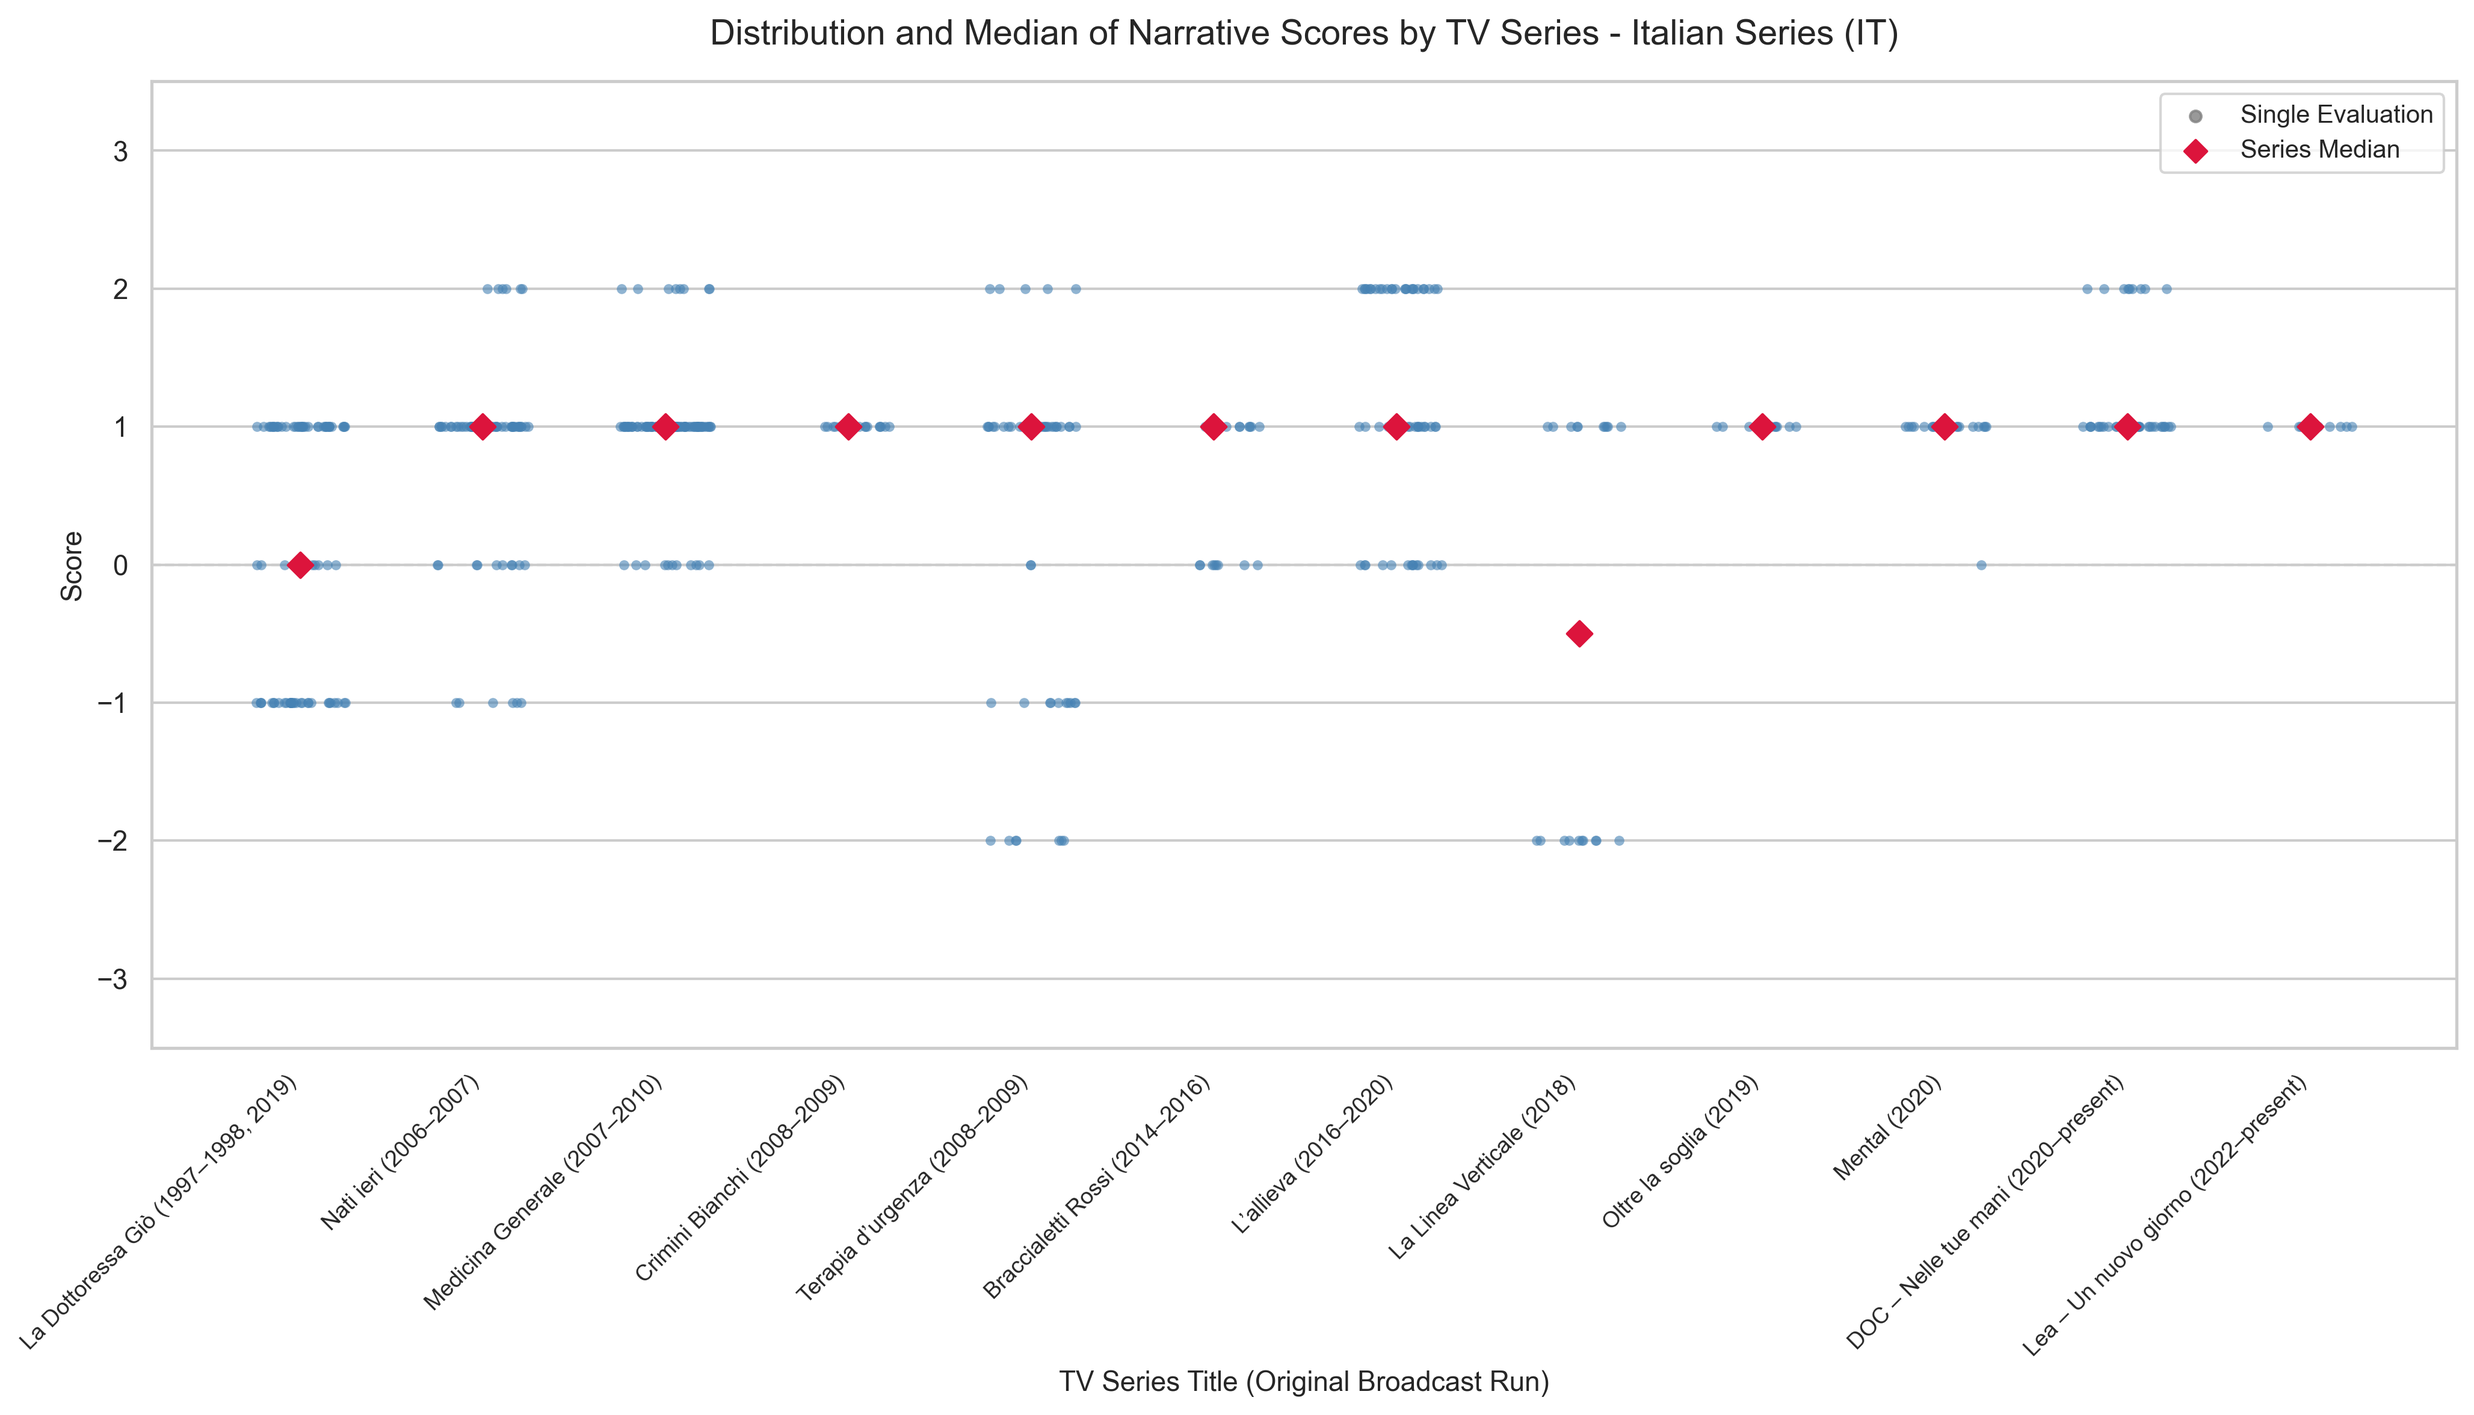
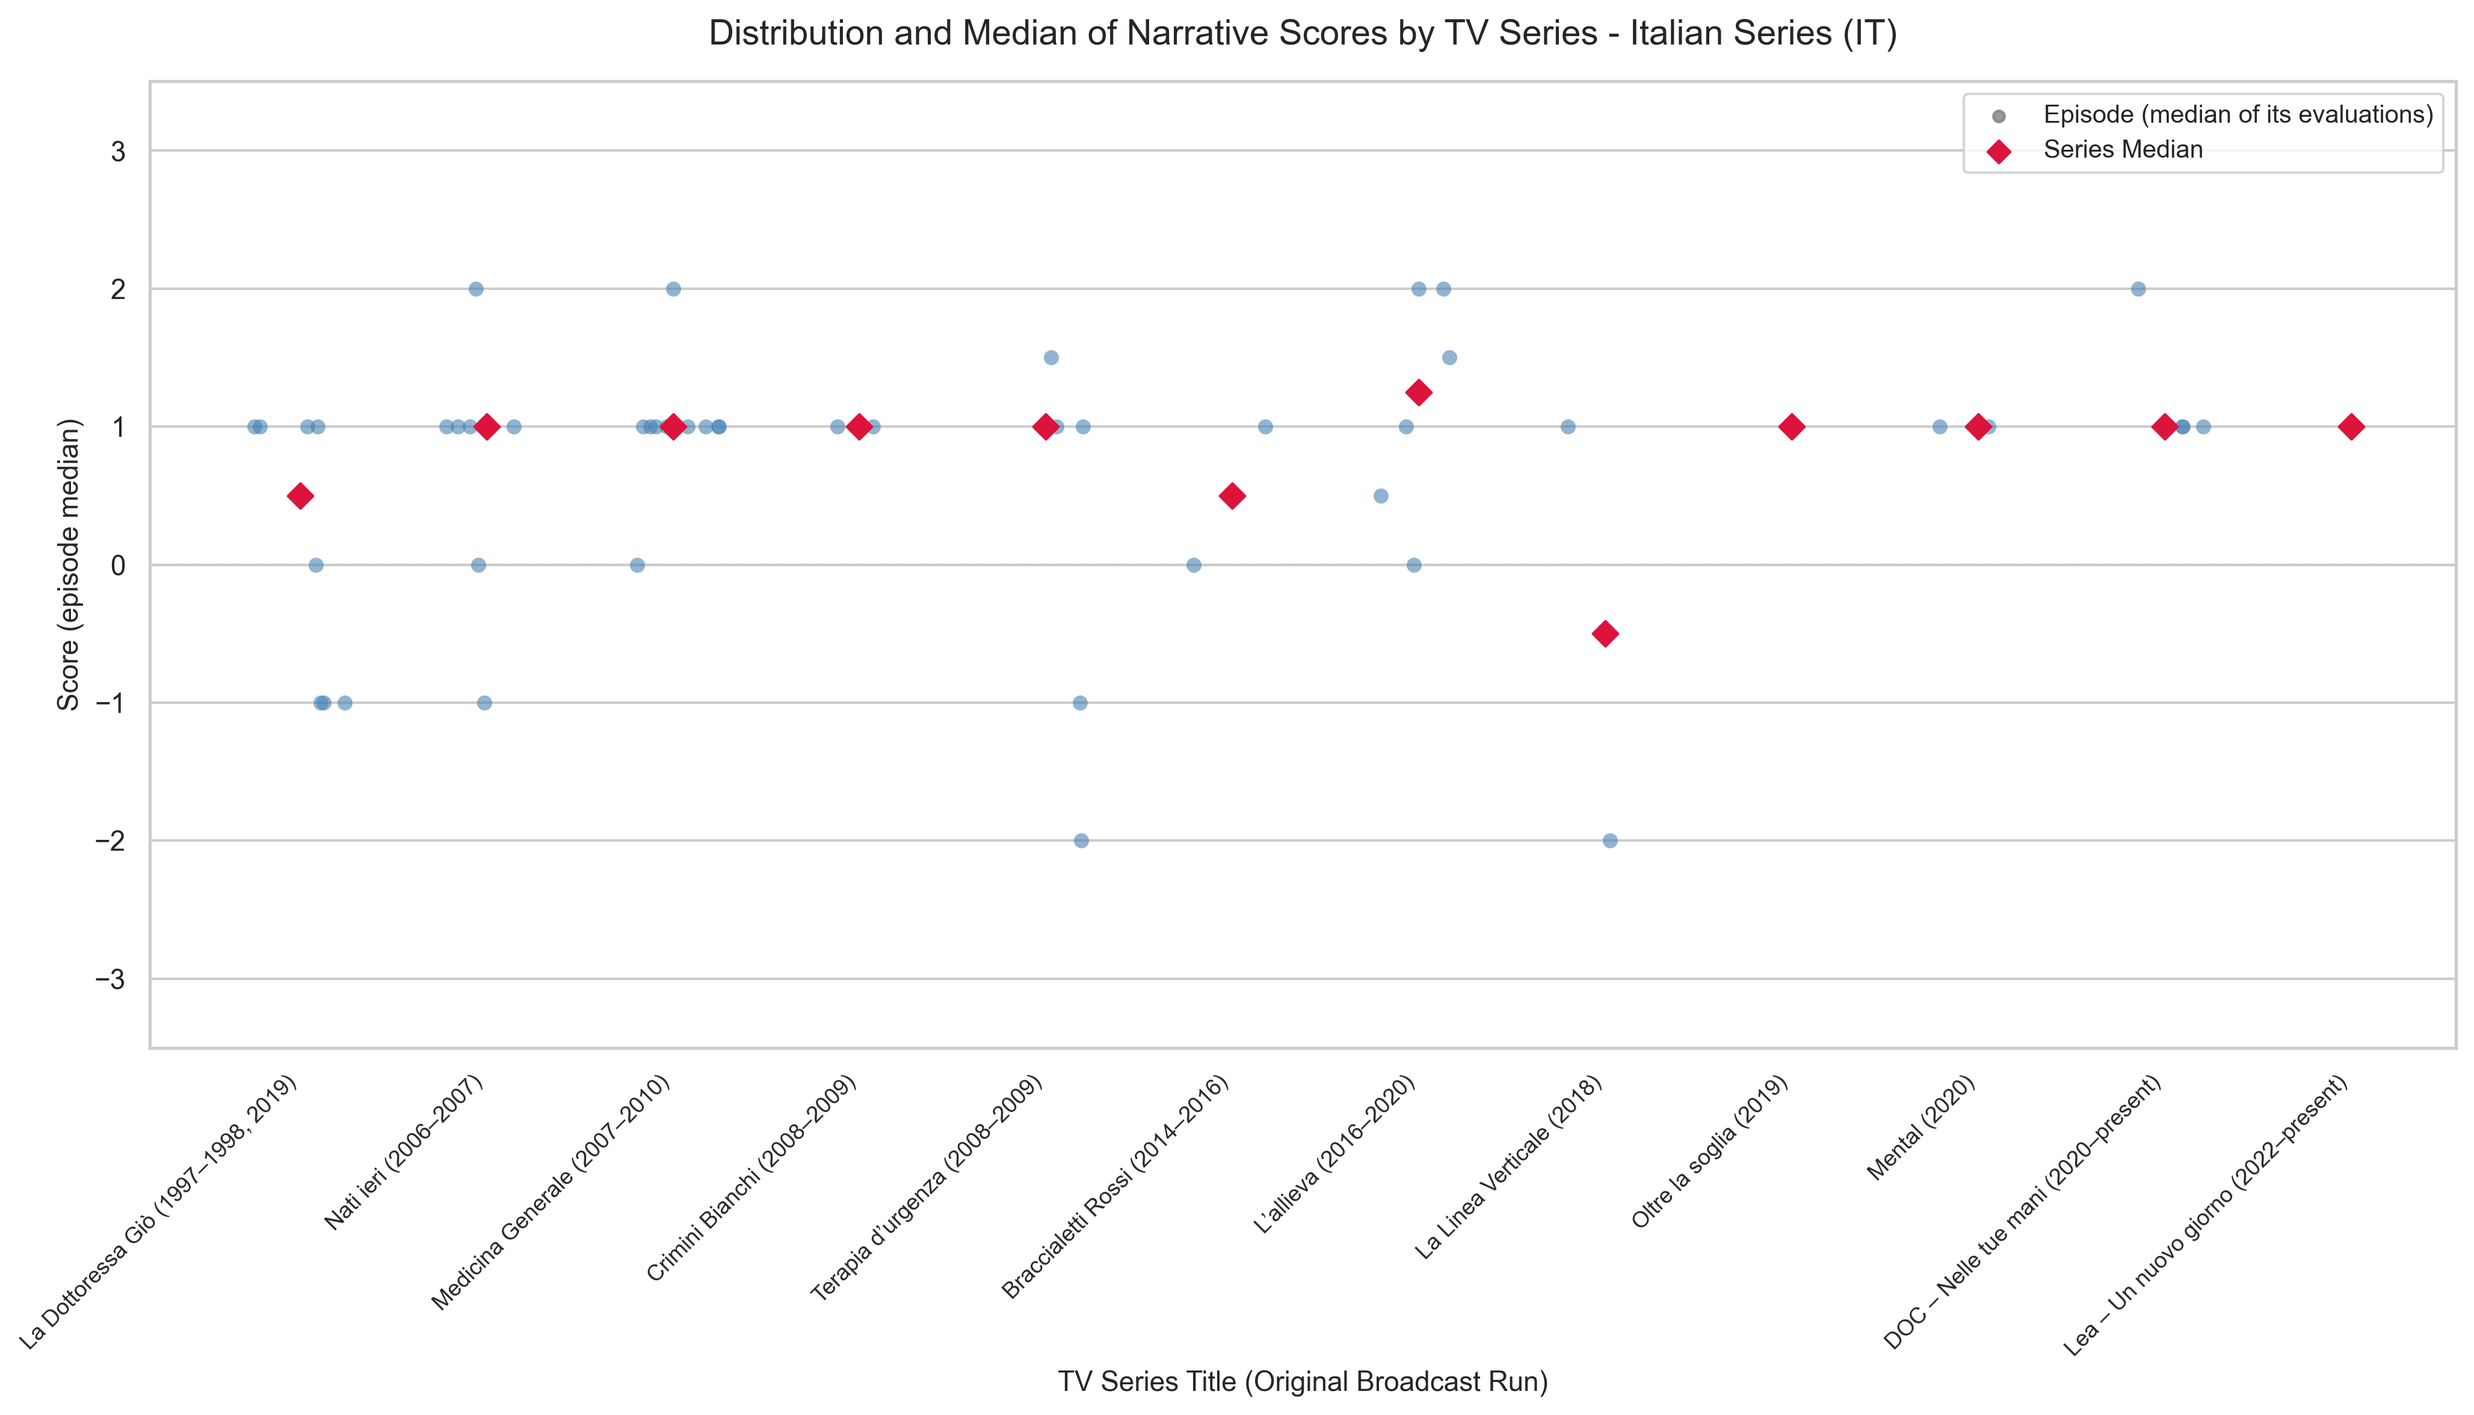
up

diff --git a/analysis/plot_distribution.py b/analysis/plot_distribution.py
@@ -1,24 +1,29 @@
-"""Per-series distribution of individual evaluations, with the series median marked."""
+"""Per-series distribution of episode scores, with the series median marked.
+
+One point per valid episode (the median of its numeric evaluations), as in the
+other figures: an episode counts once, whatever its number of evaluations.
+"""
 
 import matplotlib.pyplot as plt
 import numpy as np
 import pandas as pd
 import seaborn as sns
 
-from common import SERIES_RUNS, figure_path, load_scores, write_notes
+from common import SERIES_RUNS, episode_scores, figure_path, load_scores, write_notes
 from series_dispersion import series_dispersion
 
 sns.set_theme(style="whitegrid")
 
 
-def series_summary(frame: pd.DataFrame) -> pd.DataFrame:
-    """Median score of each series, ordered by the start of its broadcast run.
+def series_summary(episodes: pd.DataFrame) -> pd.DataFrame:
+    """Median of the episode scores of each series, ordered by broadcast run.
 
     The label carries the series' original run (SERIES_RUNS); StartYear and EndYear
     are the first and last air year of its valid episodes, reported in the notes.
     """
     summary = (
-        frame.groupby("series", observed=False)
+        episodes.assign(Year=episodes["air_date"].dt.year)
+        .groupby("series", observed=False)
         .agg(
             StartYear=("Year", "min"),
             EndYear=("Year", "max"),
@@ -33,20 +38,20 @@ def series_summary(frame: pd.DataFrame) -> pd.DataFrame:
 
 
 def create_distribution_plot(frame: pd.DataFrame, title: str, filename: str) -> None:
-    summary = series_summary(frame)
-    frame = frame.copy()
-    frame["Label"] = frame["series"].map(dict(zip(summary["series"], summary["Label"])))
+    episodes = episode_scores(frame)
+    summary = series_summary(episodes)
+    episodes["Label"] = episodes["series"].map(dict(zip(summary["series"], summary["Label"])))
     order = summary["Label"].tolist()
 
     plt.figure(figsize=(14, 8))
     sns.stripplot(
-        data=frame,
+        data=episodes,
         x="Label",
         y="score",
         order=order,
         color="steelblue",
         alpha=0.6,
-        size=4,
+        size=6,
         jitter=0.25,
         zorder=1,
     )
@@ -58,7 +63,7 @@ def create_distribution_plot(frame: pd.DataFrame, title: str, filename: str) -> 
         s=50,
         zorder=2,
     )
-    plt.scatter([], [], color="gray", alpha=0.8, s=20, label="Single Evaluation")
+    plt.scatter([], [], color="gray", alpha=0.8, s=20, label="Episode (median of its evaluations)")
     plt.scatter([], [], color="crimson", marker="D", s=40, label="Series Median")
     plt.axhline(0, color="gray", linestyle="dashed", linewidth=1, zorder=0)
 
@@ -66,7 +71,7 @@ def create_distribution_plot(frame: pd.DataFrame, title: str, filename: str) -> 
     plt.ylim(-3.5, 3.5)
     plt.xticks(rotation=45, ha="right", fontsize=9)
     plt.xlabel("TV Series Title (Original Broadcast Run)", fontsize=11)
-    plt.ylabel("Score", fontsize=11)
+    plt.ylabel("Score (episode median)", fontsize=11)
     plt.title(title, fontsize=14, pad=15)
     plt.legend(loc="upper right", fontsize=10)
     plt.tight_layout()
@@ -80,15 +85,16 @@ def create_distribution_plot(frame: pd.DataFrame, title: str, filename: str) -> 
 
 def distribution_notes(frame: pd.DataFrame, summary: pd.DataFrame, title: str) -> list:
     spread = series_dispersion(frame)
-    evaluations = frame.groupby("series")["score"].agg(["size", "min", "max"])
+    evaluations = frame.groupby("series")["score"].size()
     lines = [
         f"# {title}",
         "",
         "Valid episodes only (at most 5 N/A out of 10), numeric evaluations only.",
         "",
-        "- Dots: every numeric evaluation, jittered horizontally.",
-        "- Red diamond (series median): median of all the numeric evaluations of the",
-        "  series, as drawn.",
+        "- Dots: one per valid episode, at the median of its numeric evaluations,",
+        "  jittered horizontally.",
+        "- Red diamond (series median): median of the episode medians of the series.",
+        "  Each episode weighs once, however many numeric evaluations it has.",
         "- Label years: the original broadcast run of the series, as stated in the",
         "  paper. Valid episodes: first and last air year of the valid episodes.",
         "- SD of episode medians: each episode is first reduced to the median of its",
@@ -97,8 +103,8 @@ def distribution_notes(frame: pd.DataFrame, summary: pd.DataFrame, title: str) -
         "  undefined (n/a) for a series with a single episode. An SD of 0 means every",
         "  episode of the series has the same median score.",
         "",
-        "| Series | Run | Valid episodes aired | Episodes | Evaluations | Series median | SD of episode medians (pop. / sample) | Range of episode medians | Range of evaluations |",
-        "|---|---|---|---|---|---|---|---|---|",
+        "| Series | Run | Valid episodes aired | Episodes | Evaluations | Series median | SD of episode medians (pop. / sample) | Range of episode medians |",
+        "|---|---|---|---|---|---|---|---|",
     ]
     for _, row in summary.iterrows():
         series = row["series"]
@@ -106,10 +112,9 @@ def distribution_notes(frame: pd.DataFrame, summary: pd.DataFrame, title: str) -
         sample_sd = "n/a" if pd.isna(sd["std_sample"]) else f"{sd['std_sample']:.2f}"
         lines.append(
             f"| {series} | {row['Run']} | {int(row['StartYear'])}-{int(row['EndYear'])} | {sd['episodes']} "
-            f"| {evaluations.loc[series, 'size']} | {row['MedianScore']:+.1f} "
+            f"| {evaluations[series]} | {row['MedianScore']:+.2f} "
             f"| {sd['std_population']:.2f} / {sample_sd} "
-            f"| {sd['minimum']:+.1f} to {sd['maximum']:+.1f} "
-            f"| {evaluations.loc[series, 'min']:+.0f} to {evaluations.loc[series, 'max']:+.0f} |"
+            f"| {sd['minimum']:+.1f} to {sd['maximum']:+.1f} |"
         )
     zero = spread.index[spread["std_population"].eq(0)].tolist()
     lines += ["", f"Series with SD of episode medians = 0: {', '.join(zero) if zero else 'none'}."]

diff --git a/results/figures/racism_distribution_IT_EN.md b/results/figures/racism_distribution_IT_EN.md
@@ -2,9 +2,10 @@
 
 Valid episodes only (at most 5 N/A out of 10), numeric evaluations only.
 
-- Dots: every numeric evaluation, jittered horizontally.
-- Red diamond (series median): median of all the numeric evaluations of the
-  series, as drawn.
+- Dots: one per valid episode, at the median of its numeric evaluations,
+  jittered horizontally.
+- Red diamond (series median): median of the episode medians of the series.
+  Each episode weighs once, however many numeric evaluations it has.
 - Label years: the original broadcast run of the series, as stated in the
   paper. Valid episodes: first and last air year of the valid episodes.
 - SD of episode medians: each episode is first reduced to the median of its
@@ -13,19 +14,19 @@ Valid episodes only (at most 5 N/A out of 10), numeric evaluations only.
   undefined (n/a) for a series with a single episode. An SD of 0 means every
   episode of the series has the same median score.
 
-| Series | Run | Valid episodes aired | Episodes | Evaluations | Series median | SD of episode medians (pop. / sample) | Range of episode medians | Range of evaluations |
-|---|---|---|---|---|---|---|---|---|
-| La Dottoressa Giò | 1997–1998, 2019 | 1997-2019 | 8 | 79 | +0.0 | 0.93 / 0.99 | -1.0 to +1.0 | -1 to +1 |
-| Nati ieri | 2006–2007 | 2006-2007 | 7 | 70 | +1.0 | 0.88 / 0.95 | -1.0 to +2.0 | -1 to +2 |
-| Medicina Generale | 2007–2010 | 2007-2010 | 10 | 97 | +1.0 | 0.45 / 0.47 | +0.0 to +2.0 | +0 to +2 |
-| Crimini Bianchi | 2008–2009 | 2009-2009 | 2 | 20 | +1.0 | 0.00 / 0.00 | +1.0 to +1.0 | +1 to +1 |
-| Terapia d’urgenza | 2008–2009 | 2008-2009 | 5 | 50 | +1.0 | 1.36 / 1.52 | -2.0 to +1.5 | -2 to +2 |
-| Braccialetti Rossi | 2014–2016 | 2014-2014 | 2 | 18 | +1.0 | 0.50 / 0.71 | +0.0 to +1.0 | +0 to +1 |
-| L’allieva | 2016–2020 | 2016-2020 | 6 | 56 | +1.0 | 0.75 / 0.82 | +0.0 to +2.0 | +0 to +2 |
-| La Linea Verticale | 2018 | 2018-2018 | 2 | 20 | -0.5 | 1.50 / 2.12 | -2.0 to +1.0 | -2 to +1 |
-| Oltre la soglia | 2019 | 2019-2019 | 1 | 10 | +1.0 | 0.00 / n/a | +1.0 to +1.0 | +1 to +1 |
-| Mental | 2020 | 2020-2020 | 2 | 20 | +1.0 | 0.00 / 0.00 | +1.0 to +1.0 | +0 to +1 |
-| DOC – Nelle tue mani | 2020–present | 2020-2024 | 4 | 40 | +1.0 | 0.43 / 0.50 | +1.0 to +2.0 | +1 to +2 |
-| Lea – Un nuovo giorno | 2022–present | 2022-2022 | 1 | 10 | +1.0 | 0.00 / n/a | +1.0 to +1.0 | +1 to +1 |
+| Series | Run | Valid episodes aired | Episodes | Evaluations | Series median | SD of episode medians (pop. / sample) | Range of episode medians |
+|---|---|---|---|---|---|---|---|
+| La Dottoressa Giò | 1997–1998, 2019 | 1997-2019 | 8 | 79 | +0.50 | 0.93 / 0.99 | -1.0 to +1.0 |
+| Nati ieri | 2006–2007 | 2006-2007 | 7 | 70 | +1.00 | 0.88 / 0.95 | -1.0 to +2.0 |
+| Medicina Generale | 2007–2010 | 2007-2010 | 10 | 97 | +1.00 | 0.45 / 0.47 | +0.0 to +2.0 |
+| Crimini Bianchi | 2008–2009 | 2009-2009 | 2 | 20 | +1.00 | 0.00 / 0.00 | +1.0 to +1.0 |
+| Terapia d’urgenza | 2008–2009 | 2008-2009 | 5 | 50 | +1.00 | 1.36 / 1.52 | -2.0 to +1.5 |
+| Braccialetti Rossi | 2014–2016 | 2014-2014 | 2 | 18 | +0.50 | 0.50 / 0.71 | +0.0 to +1.0 |
+| L’allieva | 2016–2020 | 2016-2020 | 6 | 56 | +1.25 | 0.75 / 0.82 | +0.0 to +2.0 |
+| La Linea Verticale | 2018 | 2018-2018 | 2 | 20 | -0.50 | 1.50 / 2.12 | -2.0 to +1.0 |
+| Oltre la soglia | 2019 | 2019-2019 | 1 | 10 | +1.00 | 0.00 / n/a | +1.0 to +1.0 |
+| Mental | 2020 | 2020-2020 | 2 | 20 | +1.00 | 0.00 / 0.00 | +1.0 to +1.0 |
+| DOC – Nelle tue mani | 2020–present | 2020-2024 | 4 | 40 | +1.00 | 0.43 / 0.50 | +1.0 to +2.0 |
+| Lea – Un nuovo giorno | 2022–present | 2022-2022 | 1 | 10 | +1.00 | 0.00 / n/a | +1.0 to +1.0 |
 
 Series with SD of episode medians = 0: Crimini Bianchi, Mental, Lea – Un nuovo giorno, Oltre la soglia.

diff --git a/results/figures/racism_distribution_US_EN.md b/results/figures/racism_distribution_US_EN.md
@@ -2,9 +2,10 @@
 
 Valid episodes only (at most 5 N/A out of 10), numeric evaluations only.
 
-- Dots: every numeric evaluation, jittered horizontally.
-- Red diamond (series median): median of all the numeric evaluations of the
-  series, as drawn.
+- Dots: one per valid episode, at the median of its numeric evaluations,
+  jittered horizontally.
+- Red diamond (series median): median of the episode medians of the series.
+  Each episode weighs once, however many numeric evaluations it has.
 - Label years: the original broadcast run of the series, as stated in the
   paper. Valid episodes: first and last air year of the valid episodes.
 - SD of episode medians: each episode is first reduced to the median of its
@@ -13,15 +14,15 @@ Valid episodes only (at most 5 N/A out of 10), numeric evaluations only.
   undefined (n/a) for a series with a single episode. An SD of 0 means every
   episode of the series has the same median score.
 
-| Series | Run | Valid episodes aired | Episodes | Evaluations | Series median | SD of episode medians (pop. / sample) | Range of episode medians | Range of evaluations |
-|---|---|---|---|---|---|---|---|---|
-| ER | 1994–2009 | 1994-2009 | 76 | 712 | +1.0 | 1.07 / 1.08 | -2.0 to +1.0 | -2 to +2 |
-| House, M.D. | 2004–2012 | 2005-2011 | 22 | 190 | +0.0 | 0.95 / 0.97 | -2.0 to +1.0 | -2 to +1 |
-| Grey's Anatomy | 2005–present | 2005-2024 | 41 | 377 | +1.0 | 0.65 / 0.66 | -2.0 to +2.0 | -2 to +2 |
-| Private Practice | 2007–2013 | 2012-2012 | 2 | 16 | +1.0 | 0.00 / 0.00 | +1.0 to +1.0 | +0 to +1 |
-| Chicago Med | 2015–present | 2015-2024 | 18 | 172 | +1.0 | 0.75 / 0.77 | -1.0 to +1.0 | -1 to +1 |
-| The Good Doctor | 2017–2024 | 2017-2024 | 15 | 146 | +1.0 | 0.81 / 0.83 | -2.0 to +2.0 | -2 to +2 |
-| New Amsterdam | 2018–2023 | 2018-2023 | 30 | 293 | +1.0 | 0.54 / 0.55 | -1.0 to +2.0 | -1 to +2 |
-| The Resident | 2018–2023 | 2018-2022 | 18 | 175 | +1.0 | 0.71 / 0.73 | -1.0 to +2.0 | -1 to +2 |
+| Series | Run | Valid episodes aired | Episodes | Evaluations | Series median | SD of episode medians (pop. / sample) | Range of episode medians |
+|---|---|---|---|---|---|---|---|
+| ER | 1994–2009 | 1994-2009 | 76 | 712 | +0.50 | 1.07 / 1.08 | -2.0 to +1.0 |
+| House, M.D. | 2004–2012 | 2005-2011 | 22 | 190 | +0.00 | 0.95 / 0.97 | -2.0 to +1.0 |
+| Grey's Anatomy | 2005–present | 2005-2024 | 41 | 377 | +1.00 | 0.65 / 0.66 | -2.0 to +2.0 |
+| Private Practice | 2007–2013 | 2012-2012 | 2 | 16 | +1.00 | 0.00 / 0.00 | +1.0 to +1.0 |
+| Chicago Med | 2015–present | 2015-2024 | 18 | 172 | +1.00 | 0.75 / 0.77 | -1.0 to +1.0 |
+| The Good Doctor | 2017–2024 | 2017-2024 | 15 | 146 | +1.00 | 0.81 / 0.83 | -2.0 to +2.0 |
+| New Amsterdam | 2018–2023 | 2018-2023 | 30 | 293 | +1.00 | 0.54 / 0.55 | -1.0 to +2.0 |
+| The Resident | 2018–2023 | 2018-2022 | 18 | 175 | +1.00 | 0.71 / 0.73 | -1.0 to +2.0 |
 
 Series with SD of episode medians = 0: Private Practice.
